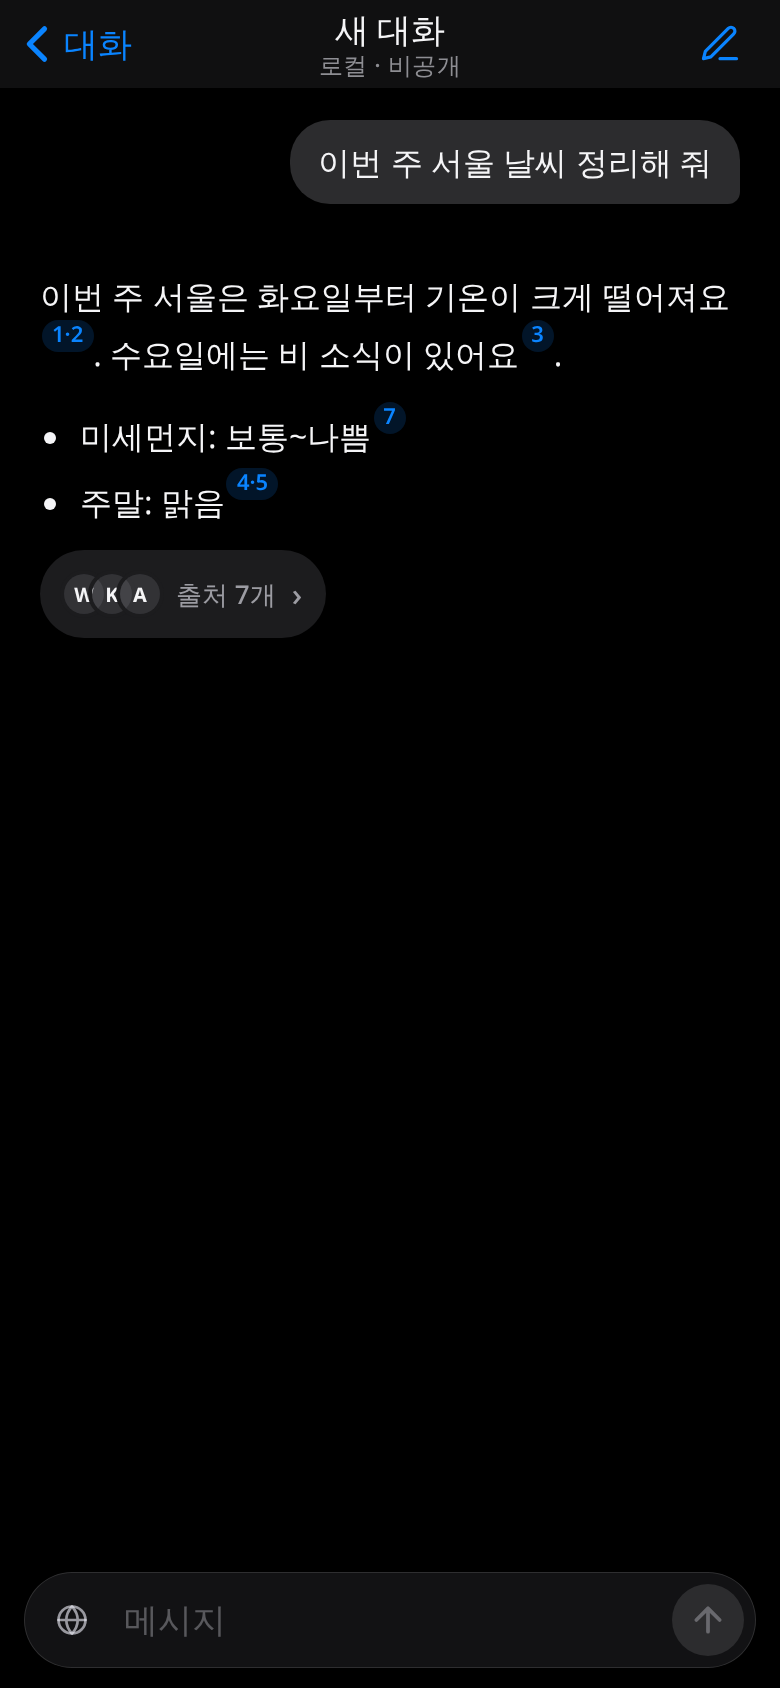
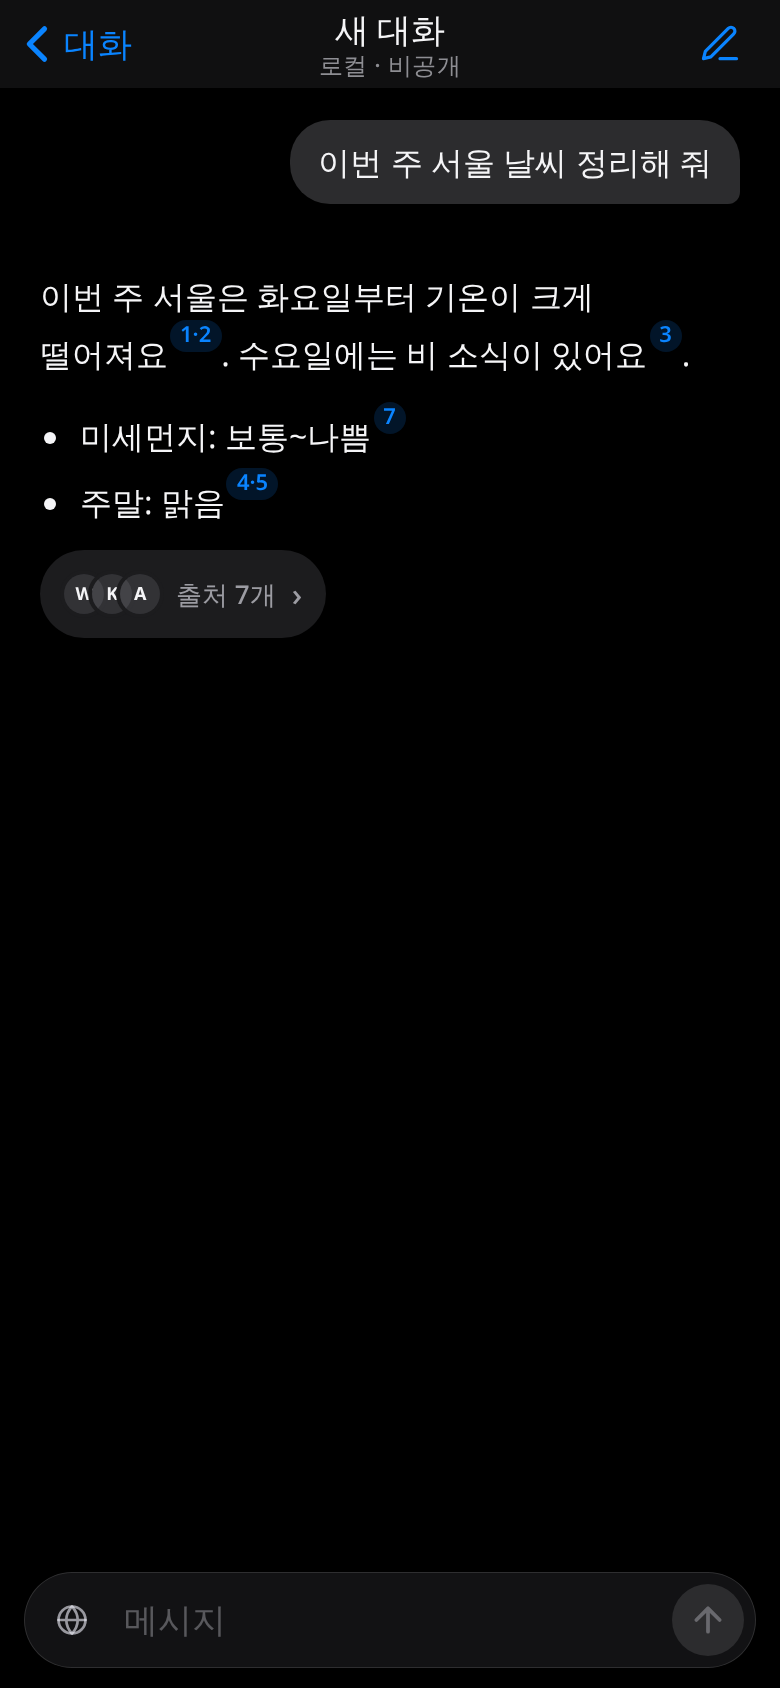
1.5.0: designer fixes (accent tokens, --d-2/--ease-standard motion, transitionend collapse, cite-glue, monogram size, --layer-1, last-message scroll, animateOut sheet), reshoot

Changed region(s): [[0.0308, 0.1848, 0.7692, 0.2156], [0.7692, 0.154, 0.9231, 0.2156]]

diff --git a/styles.css b/styles.css
@@ -822,9 +822,8 @@ body{word-break:keep-all}
 .info-val{color:var(--label-2);min-width:0;overflow:hidden;text-overflow:ellipsis;white-space:nowrap;font-variant-numeric:tabular-nums}
 
 /* ===== 1.5.0 compact sources (SOURCES-SPEC 2deb88d, stage 2) ===== */
-html,body,#messages{overflow-x:clip}
 sup.cite{line-height:0;margin-left:1px;vertical-align:super}
-sup.cite a{position:relative;display:inline-block;min-width:16px;height:16px;padding:0 5px;border-radius:8px;background:rgba(10,132,255,.16);color:#0A84FF;font-size:11px;font-weight:600;line-height:16px;font-variant-numeric:tabular-nums;text-align:center;text-decoration:none;box-sizing:border-box}
+sup.cite a{position:relative;display:inline-block;min-width:16px;height:16px;padding:0 5px;border-radius:8px;background:color-mix(in srgb,var(--accent) 16%,transparent);color:var(--accent);font-size:11px;font-weight:600;line-height:16px;font-variant-numeric:tabular-nums;text-align:center;text-decoration:none;box-sizing:border-box}
 sup.cite a::before{content:"";position:absolute;inset:-14px -6px}
 .sources{margin-top:10px;padding-top:0;border-top:0;min-width:0}
 .sources.fresh{animation:srcFade 120ms ease-out both}
@@ -836,13 +835,13 @@ sup.cite a::before{content:"";position:absolute;inset:-14px -6px}
 .fav+.fav{margin-left:-6px}
 .fav img{width:100%;height:100%;object-fit:cover;display:block}
 .src-n{white-space:nowrap}
-.src-chev{display:inline-block;font-size:16px;line-height:1;transition:transform 280ms cubic-bezier(.32,.72,0,1)}
+.src-chev{display:inline-block;font-size:16px;line-height:1;transition:transform var(--d-2) var(--ease-standard)}
 .sources.open .src-chev{transform:rotate(90deg)}
 .src-list{margin-top:6px;min-width:0}
 .src-list ol,.src-sheet ol{list-style:none;margin:0;padding:0;display:grid;grid-template-columns:minmax(0,1fr);gap:2px}
-.src-list:not([hidden]){opacity:0;transform:translateY(-4px);transition:opacity 280ms cubic-bezier(.32,.72,0,1),transform 280ms cubic-bezier(.32,.72,0,1)}
+.src-list:not([hidden]){opacity:0;transform:translateY(-4px);transition:opacity var(--d-2) var(--ease-standard),transform var(--d-2) var(--ease-standard)}
 .src-list.in{opacity:1;transform:none}
-.src-list.in .src-item{animation:srcItem 280ms cubic-bezier(.32,.72,0,1) both}
+.src-list.in .src-item{animation:srcItem var(--d-2) var(--ease-standard) both}
 .src-list.in .src-item:nth-child(2){animation-delay:20ms}.src-list.in .src-item:nth-child(3){animation-delay:40ms}.src-list.in .src-item:nth-child(4){animation-delay:60ms}.src-list.in .src-item:nth-child(5){animation-delay:80ms}
 @keyframes srcItem{from{opacity:0;transform:translateY(-4px)}to{opacity:1;transform:none}}
 .sources .src-item a,.src-sheet .src-item a{display:grid;grid-template-columns:20px minmax(0,1fr);gap:2px 10px;align-items:start;min-height:44px;padding:10px 12px;margin:0;border-radius:12px;background:var(--src-bg);color:var(--label);text-decoration:none;box-sizing:border-box;position:relative}
@@ -859,7 +858,9 @@ sup.cite a::before{content:"";position:absolute;inset:-14px -6px}
 dialog.src-sheet{max-height:60dvh;padding:0 16px calc(16px + env(safe-area-inset-bottom));overscroll-behavior:contain}
 .src-sheet-head{display:flex;align-items:center;justify-content:space-between;min-height:44px;margin-bottom:6px}
 .src-sheet-head h3{margin:0;font-size:17px;font-weight:600}
-:root{--src-bg:#1C1C1E}
-@media (prefers-color-scheme:light){:root{--src-bg:#F2F2F7}}
+:root{--src-bg:var(--layer-1)}
 @media (prefers-reduced-motion:reduce){.src-list:not([hidden]),.src-list.in .src-item,.src-chev,.sources.fresh,.src-item.hl a{transition:none;animation:none;opacity:1;transform:none}.sources.open .src-chev{transform:rotate(90deg)}}
 .msg.assistant .bubble .sources ol,.src-sheet ol{padding-left:0;margin:0}.msg.assistant .bubble .src-item,.src-sheet .src-item{margin:0}
+
+.fav.mono{font-size:9px;line-height:20px;letter-spacing:-.2px}
+.cite-glue{white-space:nowrap}

diff --git a/app.js b/app.js
@@ -45,6 +45,11 @@ function inlineMd(s) { // s already escaped; code spans are protected from empha
     const c0 = _cites.get(ns[0]); const lab = ns.map(n => `출처 ${n}, ${srcDomain(_cites.get(n))}`).join('; ');
     return `<sup class="cite"><a href="${escapeHtml(c0.url)}" target="_blank" rel="noopener noreferrer" data-n="${ns.join(',')}" aria-label="${escapeHtml(lab)}">${ns.join('·')}</a></sup>`;
   });
+  // 1.5.0 cite-glue: keep a capsule on the same line as its word and trailing punctuation (no U+2060); long words (>12) glue capsule+punct only
+  if (_cites) s = s.replace(/([^\s<>]*)(<sup class="cite">[\s\S]*?<\/sup>)([.,!?)」]*)/g, (all, w, sup, p) => {
+    const len = [...w.replace(/\u0000\d+\u0000/g, 'x').replace(/&(?:#\d+|\w+);/g, 'x')].length;
+    return len > 12 ? `${w}<span class="cite-glue">${sup}${p}</span>` : `<span class="cite-glue">${w}${sup}${p}</span>`;
+  });
   return s.replace(/\u0000(\d+)\u0000/g, (_, i) => `<code>${codes[i]}</code>`);
 }
 // Index where the "stable" (completed) markdown ends: last blank line outside any code fence.
@@ -1743,12 +1748,16 @@ if (typeof document !== 'undefined') (function () {
     row.setAttribute('aria-expanded', String(open)); sec.classList.toggle('open', open);
     if (open) { list.hidden = false; list.classList.remove('in'); void list.offsetWidth; list.classList.add('in'); }
     else if (reduceMotion()) list.hidden = true;
-    else { list.classList.remove('in'); setTimeout(() => { if (!sec.classList.contains('open')) list.hidden = true; }, 280); }
+    else { list.classList.remove('in'); const fin = e => { if (e.target !== list || e.propertyName !== 'opacity') return; list.removeEventListener('transitionend', fin); if (!sec.classList.contains('open')) list.hidden = true; }; list.addEventListener('transitionend', fin); }
+    if (open && sec.closest('.msg') === [...document.querySelectorAll('#messages .msg')].pop()) { // last message: bring the opened list into view once it has settled
+      const go = () => list.scrollIntoView({ block: 'nearest', behavior: reduceMotion() ? 'auto' : 'smooth' });
+      if (reduceMotion()) go(); else { const fin = e => { if (e.target !== list || e.propertyName !== 'transform') return; list.removeEventListener('transitionend', fin); go(); }; list.addEventListener('transitionend', fin); } }
   }
+  function closeSrcSheet(d) { if (d.open && !d.classList.contains('closing')) animateOut(d, () => d.close()); }
   function openSrcSheet(sec) {
     let d = document.getElementById('srcSheet');
     if (!d) { d = document.createElement('dialog'); d.id = 'srcSheet'; d.className = 'src-sheet'; d.setAttribute('aria-labelledby', 'srcSheetTitle'); document.body.appendChild(d);
-      d.addEventListener('click', e => { if (e.target === d || e.target.closest('.src-close')) d.close(); }); d.addEventListener('close', () => document.body.classList.remove('sheet-open')); }
+      d.addEventListener('click', e => { if (e.target === d || e.target.closest('.src-close')) closeSrcSheet(d); }); d.addEventListener('cancel', e => { e.preventDefault(); closeSrcSheet(d); }); d.addEventListener('close', () => document.body.classList.remove('sheet-open')); }
     const n = sec.querySelectorAll('.src-all-tpl')[0]?.content.querySelectorAll('.src-item').length || 0;
     d.innerHTML = `<div class="grabber" aria-hidden="true"></div><div class="src-sheet-head"><h3 id="srcSheetTitle">출처 ${n}개</h3><button type="button" class="text-btn src-close">닫기</button></div><div class="src-sheet-body"></div>`;
     d.querySelector('.src-sheet-body').appendChild(sec.querySelector('.src-all-tpl').content.cloneNode(true));

diff --git a/tests/sources_compact.py b/tests/sources_compact.py
@@ -29,7 +29,19 @@ with sync_playwright() as p:
             check('consecutive [1][2] → one capsule 1·2', caps.first.inner_text() == '1·2', caps.first.inner_text())
             check('capsule aria-label lists sources w/o www.', caps.first.get_attribute('aria-label') == '출처 1, site1.example.com; 출처 2, site2.example.com', caps.first.get_attribute('aria-label'))
             cs = pg.evaluate("(()=>{const a=document.querySelector('#many sup.cite a'),r=a.getBoundingClientRect(),s=getComputedStyle(a),b=getComputedStyle(a,'::before');return {h:r.height,bg:s.backgroundColor,c:s.color,num:s.fontVariantNumeric,hw:r.width-2*parseFloat(b.left),hh:r.height-2*parseFloat(b.top)}})()")
-            check('capsule visual 16px, blue on tinted', cs['h'] == 16 and cs['c'] == 'rgb(10, 132, 255)' and 'tabular' in cs['num'], cs)
+            acc = pg.evaluate("(()=>{const e=document.createElement('i');e.style.color='var(--accent)';document.body.appendChild(e);const c=getComputedStyle(e).color;e.remove();return c})()")
+            check('capsule visual 16px, var(--accent) on 16% accent mix', cs['h'] == 16 and cs['c'] == acc and 'tabular' in cs['num'] and ('srgb' in cs['bg'] or cs['bg'].startswith('rgba(10, 132, 255, 0.16')), [cs, acc])
+            mono = pg.evaluate("(()=>{const m=document.querySelector('#many .fav.mono'),s=getComputedStyle(m);return {fs:s.fontSize,lh:s.lineHeight,ls:s.letterSpacing,clip:m.scrollWidth<=m.clientWidth}})()")
+            check('monogram 9px/20px, -.2px, not clipped', mono['fs'] == '9px' and mono['lh'] == '20px' and mono['ls'] == '-0.2px' and mono['clip'], mono)
+            g = pg.evaluate("""(()=>{const m=document.getElementById('messages');const t=document.createElement('div');t.className='msg assistant';t.id='glue';
+              const src=[{n:1,title:'a',url:'https://a.example/'},{n:2,title:'b',url:'https://b.example/'}];
+              t.innerHTML='<div class="bubble"><div class="md">'+renderMarkdown('짧은말[1]. 그리고 끝[1][2]」 **굵게**[2]! 아주아주아주아주긴단어입니다요[1]?', src)+'</div></div>';m.appendChild(t);
+              const gs=[...t.querySelectorAll('.cite-glue')].map(x=>x.textContent);const ws=getComputedStyle(t.querySelector('.cite-glue')).whiteSpace;
+              const html=t.innerHTML;t.remove();return {gs,ws,wj:html.includes('\u2060'),all:t.querySelectorAll('sup.cite').length}})()""")
+            check('cite-glue: word + capsule + punctuation', g['gs'][0] == '짧은말1.' and g['gs'][1] == '끝1·2」', g)
+            check('cite-glue: tag-ending word glues capsule only', g['gs'][2] == '2!', g)
+            check('cite-glue: >12-char word glues capsule + punct only', g['gs'][3] == '1?', g)
+            check('cite-glue nowrap, no U+2060', g['ws'] == 'nowrap' and not g['wj'], g)
             check('capsule ::before hit area ≥44', cs['hh'] >= 44 and cs['hw'] >= 16 + 12, cs)
             row = pg.evaluate("(()=>{const s=document.querySelector('#many .sources'),r=s.querySelector('.src-row'),rr=r.getBoundingClientRect();return {sec:s.getBoundingClientRect().height,h:rr.height,txt:r.textContent.trim(),exp:r.getAttribute('aria-expanded'),ctl:!!document.getElementById(r.getAttribute('aria-controls')),favs:r.querySelectorAll('.fav').length,imgs:[...r.querySelectorAll('.fav img')].map(i=>i.src.slice(0,10)),mono:[...r.querySelectorAll('.fav.mono')].map(x=>x.textContent),listHidden:s.querySelector('.src-list').hidden}})()")
             check('collapsed: one 44px row, list hidden', row['h'] == 44 and row['sec'] == 44 and row['listHidden'], row)
@@ -56,7 +68,7 @@ with sync_playwright() as p:
             check('item a11y label + new tab + list role', it['lab'].startswith('1. ') and it['lab'].endswith('site1.example.com, 새 창에서 열림') and it['tgt'] == '_blank' and it['rel'] == 'noopener noreferrer' and it['role'] == 'list', it)
             check('no negative margins', it['ml'] == '0px', it)
             tr = pg.evaluate("(()=>{const l=document.querySelector('#many .src-list'),s=getComputedStyle(l);return [s.transitionDuration,s.transitionTimingFunction,s.transitionProperty]})()")
-            check('motion 280ms cubic-bezier(.32,.72,0,1), opacity/transform only', '0.28s' in tr[0] and '0.32, 0.72, 0, 1' in tr[1] and 'height' not in tr[2] and 'width' not in tr[2], tr)
+            check('motion var(--d-2) var(--ease-standard), opacity/transform only', '0.2s' in tr[0] and '0.32, 0.72, 0, 1' in tr[1] and 'height' not in tr[2] and 'width' not in tr[2], tr)
         else:
             tr = pg.evaluate("(()=>{const l=document.querySelector('#many .src-list'),s=getComputedStyle(l),i=getComputedStyle(l.querySelector('.src-item'));return [s.transitionDuration,i.animationName,s.opacity]})()")
             check(tag + 'instant (no slide/stagger, already opaque)', tr[1] == 'none' and tr[2] == '1', tr)
@@ -67,10 +79,22 @@ with sync_playwright() as p:
         if sh and not reduce:
             check('chips: domain only, 160px ellipsis, wrap', all(c[1] == '160px' and c[2] == 'ellipsis' and c[3] == 'nowrap' and not c[0].startswith('www.') for c in sh['chips']) and sh['wrap'] == 'wrap' and len(sh['chips']) == 4, sh)
             check('sheet no horizontal scroll', sh['sw'], sh)
-        pg.evaluate("document.getElementById('srcSheet').close()"); pg.wait_for_timeout(200)
-        pg.click('#many .src-row'); pg.wait_for_timeout(400)
+        pg.click('#srcSheet .src-close'); pg.wait_for_timeout(60)
+        check(tag + 'sheet closes via animateOut (closing state)', pg.evaluate("document.getElementById('srcSheet').classList.contains('closing')"))
+        pg.wait_for_timeout(500); check(tag + 'sheet closed', not pg.evaluate("document.getElementById('srcSheet').open"))
+        pg.click('#many .src-row'); pg.wait_for_timeout(50)
+        if not reduce: check('collapse waits for transitionend (still visible mid-fade)', not pg.evaluate("document.querySelector('#many .src-list').hidden"))
+        pg.wait_for_timeout(400)
         check(tag + 'row toggle collapses (aria-expanded=false, hidden)', pg.evaluate("(()=>{const s=document.querySelector('#many .sources');return s.querySelector('.src-row').getAttribute('aria-expanded')==='false'&&s.querySelector('.src-list').hidden})()"))
         pg.click('#many .src-row'); pg.wait_for_timeout(400)
+        pg.click('#many .src-all'); pg.wait_for_timeout(300)
+        pg.evaluate("document.getElementById('srcSheet').close()"); pg.click('#many .src-row'); pg.wait_for_timeout(300); pg.evaluate("document.getElementById('messages').scrollTop=0"); pg.wait_for_timeout(100)
+        pg.click('#many .src-row', force=True); pg.wait_for_timeout(600)
+        if not reduce:
+            pg.evaluate("document.getElementById('messages').scrollTop=0"); pg.wait_for_timeout(100)
+            pg.evaluate("document.querySelector('#few .src-row').click()"); pg.wait_for_timeout(700)
+            v = pg.evaluate("(()=>{const r=document.querySelector('#few .src-list').getBoundingClientRect(),m=document.getElementById('messages').getBoundingClientRect();return [r.bottom,m.bottom,document.getElementById('messages').scrollTop]})()")
+            check('expanding on last message scrolls list into view (nearest)', v[0] <= v[1] + 1 and v[2] > 0, v)
         pg.click('#many .src-all'); pg.wait_for_timeout(300)
         check(tag + '모두 보기 opens sheet', pg.evaluate("document.getElementById('srcSheet').open")); pg.evaluate("document.getElementById('srcSheet').close()")
         for w in [390, 375, 320]:
@@ -99,5 +123,5 @@ with sync_playwright() as p:
     check('done: row appears with 120ms fade', fin0.get('fresh') and fin0.get('anim') == 'srcFade 0.12s', fin0)
     check('done: row still present after persist', bool(fin), fin)
     check('stream: no page errors', not errs, errs)
-    b.close()
+    b.close(); put('/csp/off')  # restore mock state (csrf_all expects CSP off)
 print(f"{sum(R)}/{len(R)} passed" if all(R) else f"FAILED {R.count(False)}/{len(R)}")
